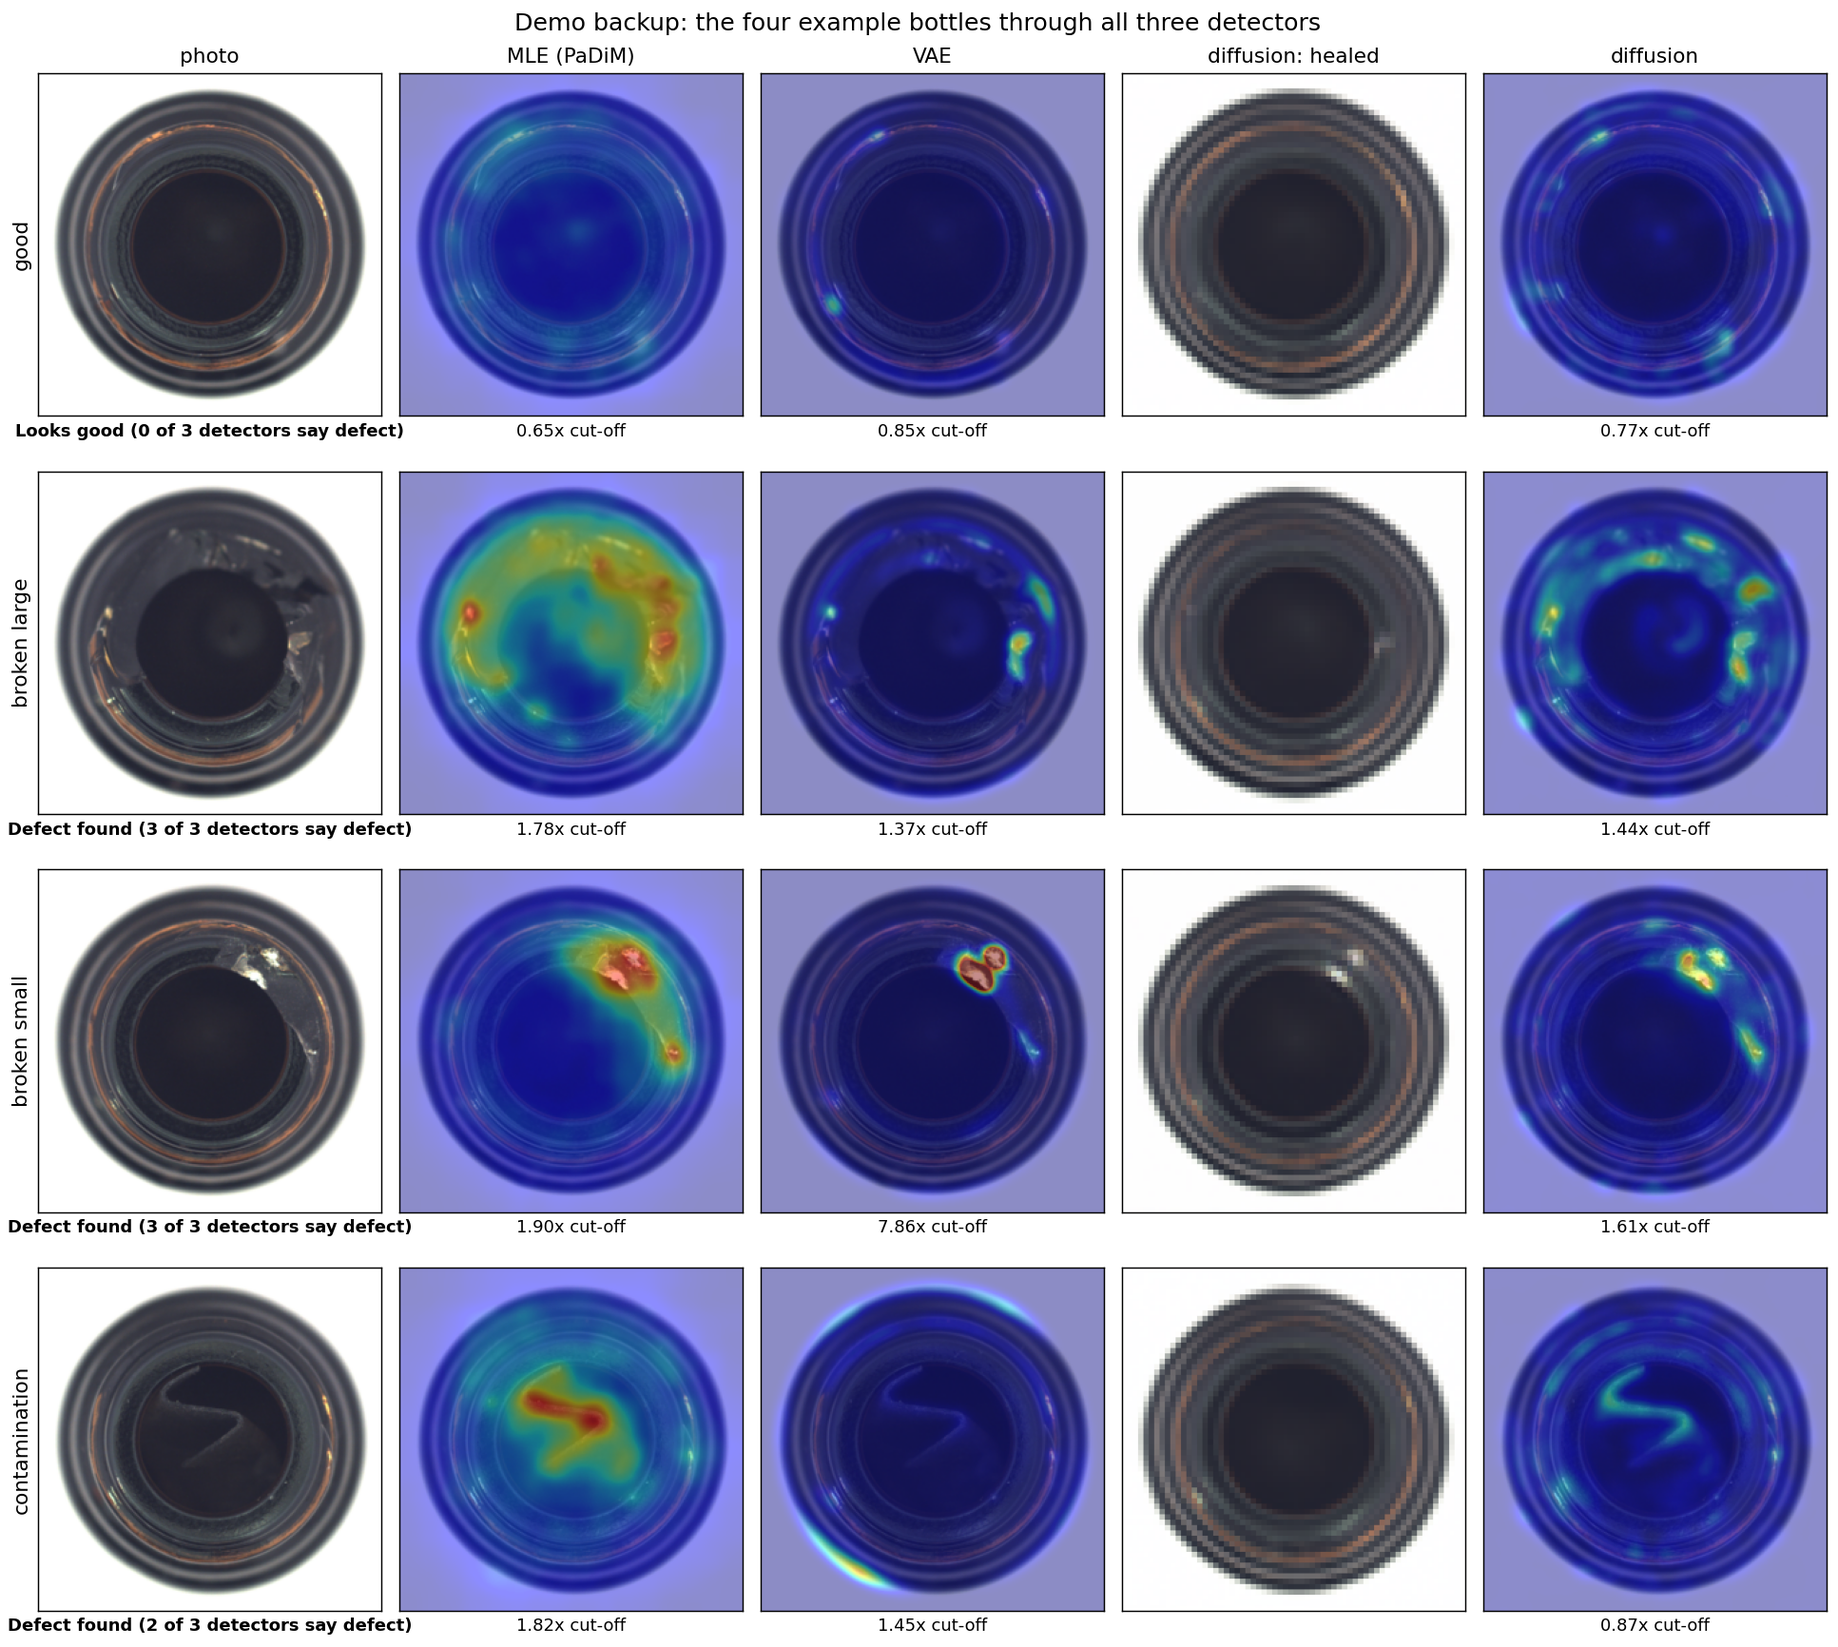
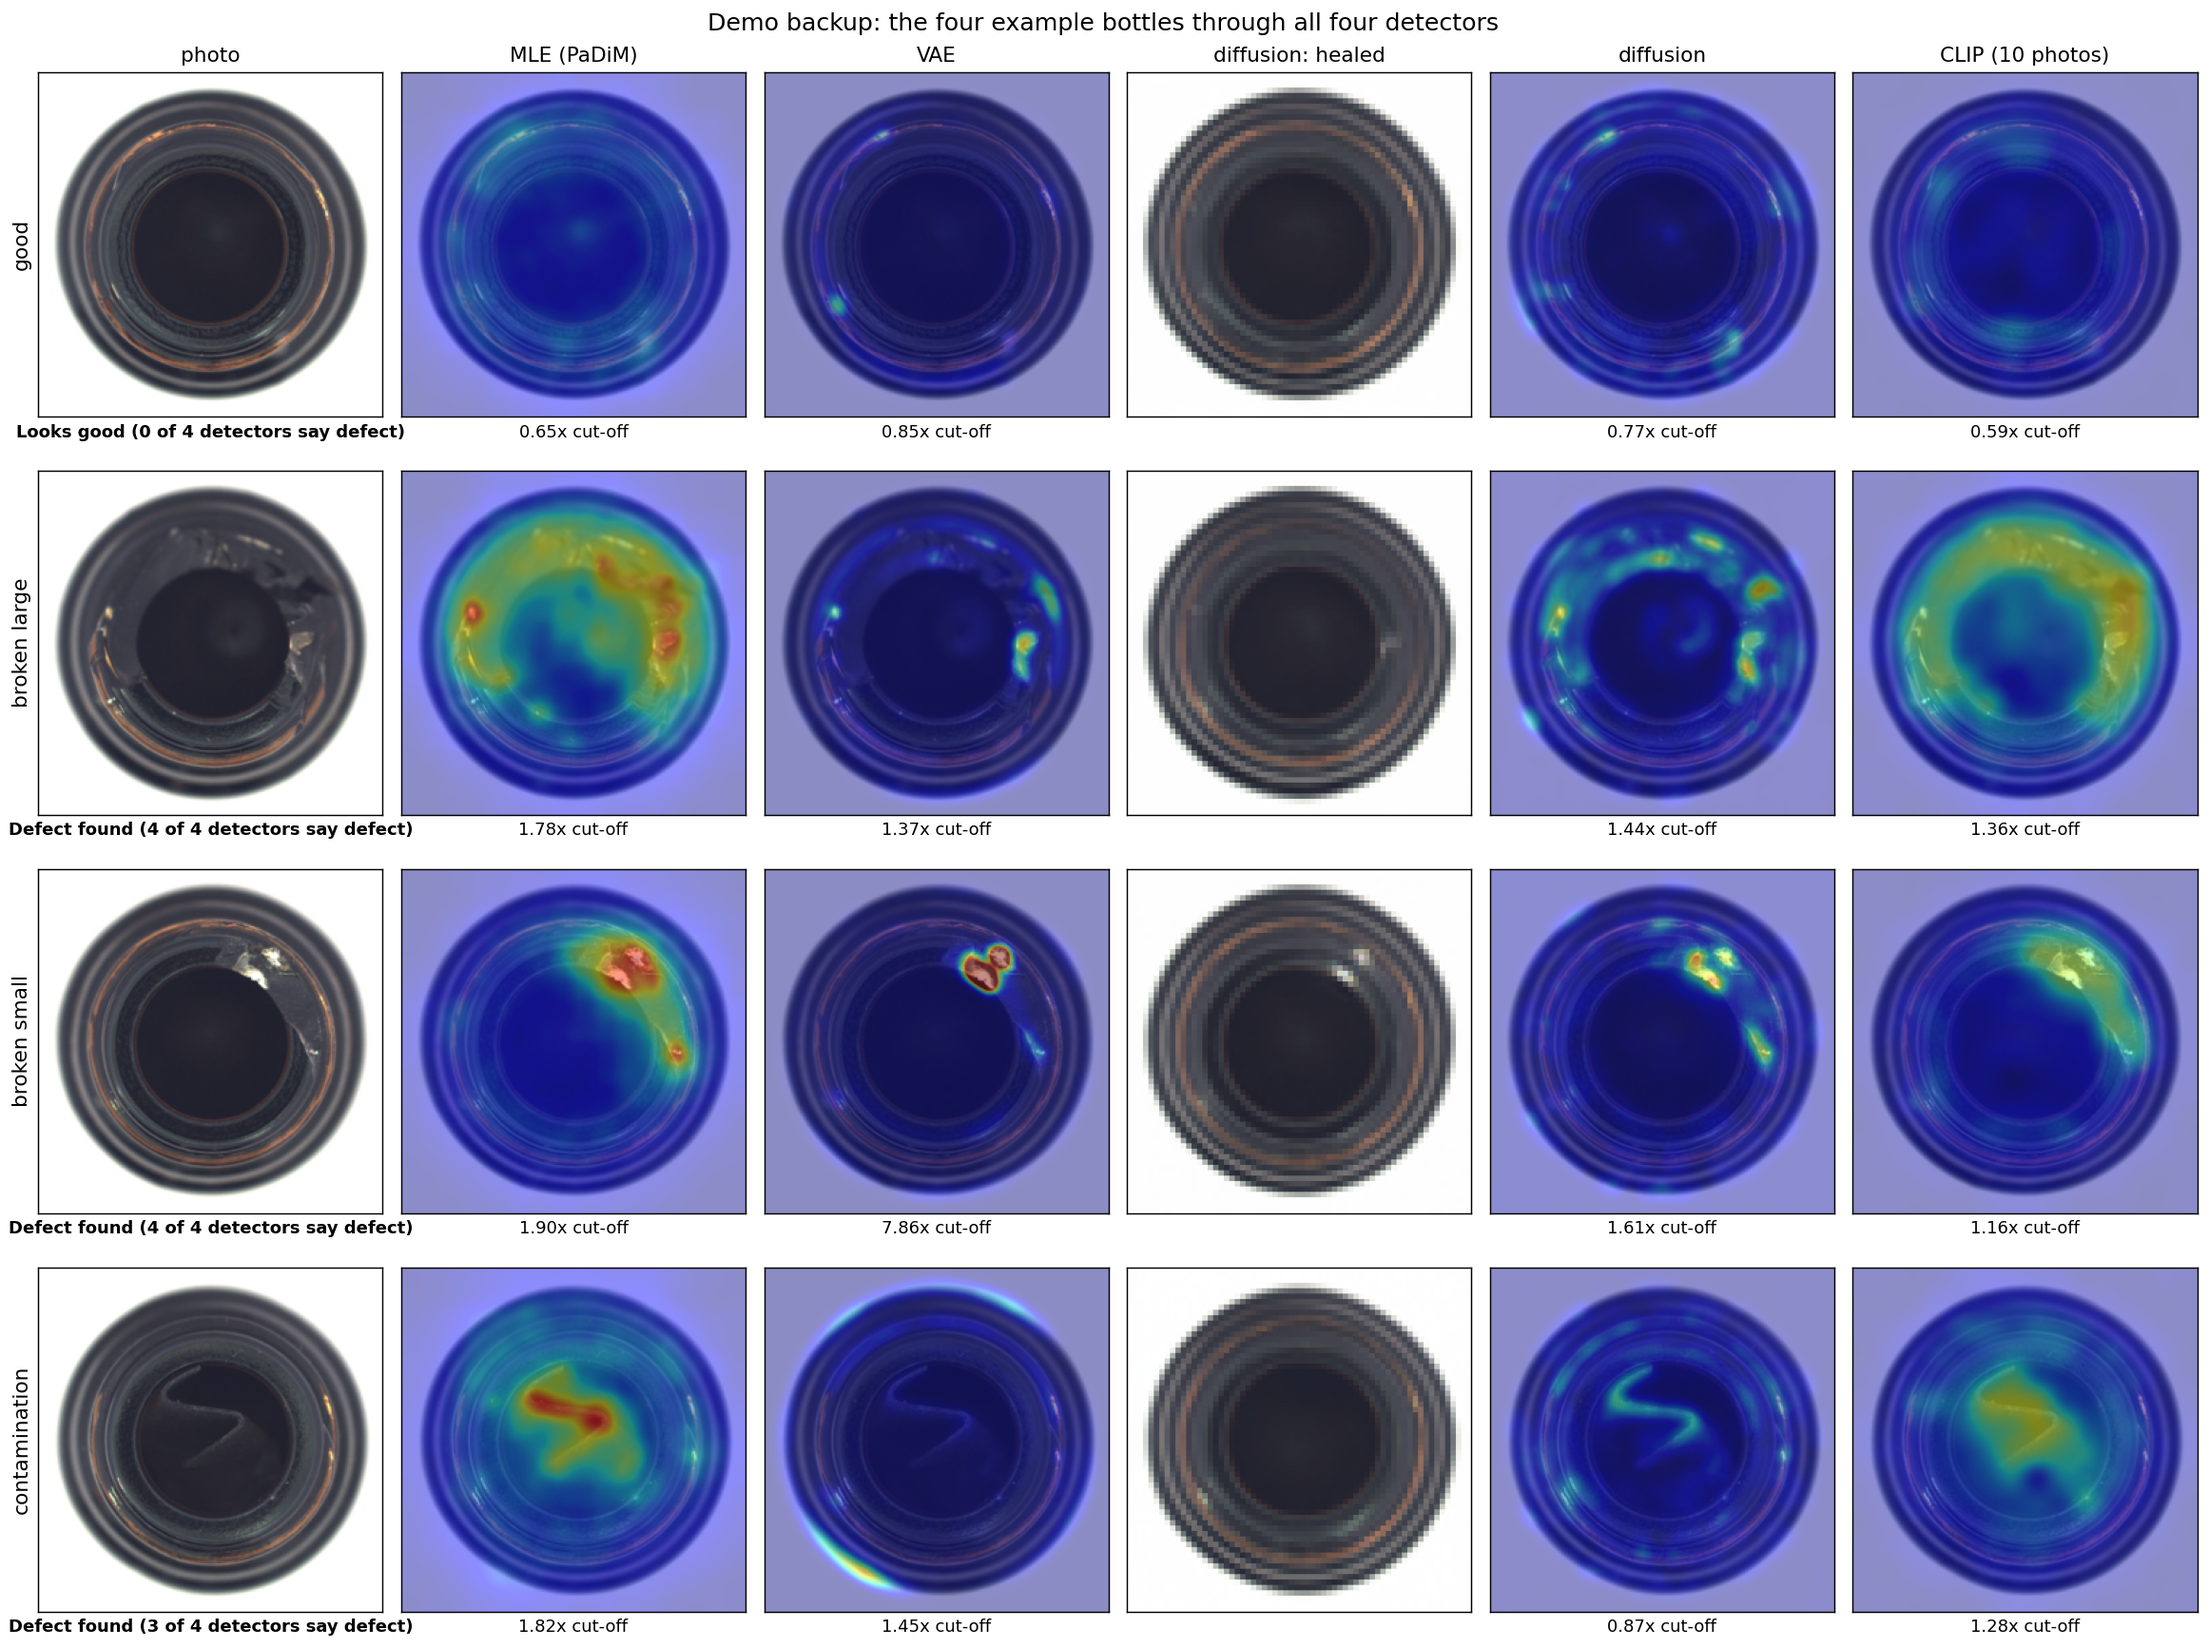
Phase 5: CLIP column in the demo, README section on few-shot, CLIP and fake defects

diff --git a/demo.py b/demo.py
@@ -1,4 +1,4 @@
-"""Demo app: upload a bottle photo, see what all three detectors think.
+"""Demo app: upload a bottle photo, see what all four detectors think.
 
     python demo.py            # opens on http://127.0.0.1:7860
     python demo.py --share    # also prints a public link (needs internet)
@@ -17,11 +17,12 @@ from PIL import Image
 
 from data import load_mvtec
 from detectors import diffusion, vae
+from detectors.clip_detector import CLIPDetector
 from detectors.padim import PaDiM
 from make_figures import typical_per_type
 
 CUT = {k: json.loads(Path(f"results/{k}.json").read_text())["threshold"] for k in ("padim", "vae", "diffusion")}
-NAMES = {"padim": "MLE (PaDiM)", "vae": "VAE", "diffusion": "Diffusion healing"}
+NAMES = {"padim": "MLE (PaDiM)", "vae": "VAE", "diffusion": "Diffusion healing", "clip": "CLIP, 10 photos"}
 JET = matplotlib.colormaps["jet"]
 
 print("Loading detectors...")
@@ -29,6 +30,11 @@ data = load_mvtec()
 padim = PaDiM().fit(data["train_images"])
 vae_model = vae.load("models/vae.pt")
 ddpm = diffusion.load()
+# CLIP sees only 10 good bottles (same draw as few_shot.py). Its cut-off is the highest score among 50 other good
+# bottles it never saw: no defect photo needed (the "good only" rule that held up in use_fakes.py).
+pick = np.random.default_rng(0).permutation(len(data["train_images"]))
+clip = CLIPDetector().fit(data["train_images"][pick[:10]])
+CUT["clip"] = float(clip.few_shot_maps(data["train_images"][pick[10:60]]).max())
 scores = padim.heatmaps(data["test_images"]).reshape(len(data["test_images"]), -1).max(1)
 EXAMPLES = [data["test_paths"][i] for i in typical_per_type(data["test_types"], scores)]  # one typical bottle per type
 print("Ready.")
@@ -45,24 +51,24 @@ def inspect(photo):
         raise gr.Error("Upload a bottle photo first, or click one of the examples.")
     img = np.array(Image.fromarray(photo).convert("RGB").resize((256, 256), Image.BILINEAR))  # same as data.py; a writable copy for torch
     healed, diff_map = diffusion.heal_and_map(ddpm, img[None])
-    maps = {"padim": padim.detect(img), "vae": vae.detect(vae_model, img), "diffusion": diff_map[0]}
+    maps = {"padim": padim.detect(img), "vae": vae.detect(vae_model, img), "diffusion": diff_map[0], "clip": clip.detect(img)}
 
     rows, votes = [], 0
     for k, m in maps.items():
         ratio = float(m.max()) / CUT[k]
         votes += ratio >= 1
         rows.append(f"| {NAMES[k]} | {ratio:.2f}x | {'🔴 Defect found' if ratio >= 1 else '🟢 Looks good'} |")
-    summary = (f"### {'🔴 Defect found' if votes >= 2 else '🟢 Looks good'} ({votes} of 3 detectors say defect)\n\n"
+    summary = (f"### {'🔴 Defect found' if votes >= 2 else '🟢 Looks good'} ({votes} of 4 detectors say defect)\n\n"
                "| Detector | Score ÷ cut-off | Verdict |\n|---|---|---|\n" + "\n".join(rows) +
-               "\n\n1.00x is the decision line. All three detectors were trained only on good bottles.")
+               "\n\n1.00x is the decision line. All detectors were trained only on good bottles; CLIP on just 10.")
     healed_big = np.asarray(Image.fromarray(healed[0]).resize((256, 256), Image.NEAREST))
     return (summary, overlay(img, maps["padim"], CUT["padim"]), overlay(img, maps["vae"], CUT["vae"]),
-            healed_big, overlay(img, maps["diffusion"], CUT["diffusion"]))
+            healed_big, overlay(img, maps["diffusion"], CUT["diffusion"]), overlay(img, maps["clip"], CUT["clip"]))
 
 
 with gr.Blocks(title="Defect Inspector") as app:
     gr.Markdown("# An inspector that has never seen a defect\n"
-                "Three generative models trained **only on good bottles** (MVTec AD). "
+                "Three generative models trained **only on good bottles** (MVTec AD), plus CLIP shown just 10 of them. "
                 "Upload a bottle photo, or pick an example, and see where each one thinks the defect is.")
     with gr.Row():
         photo = gr.Image(type="numpy", label="Bottle photo", height=300)
@@ -74,14 +80,15 @@ with gr.Blocks(title="Defect Inspector") as app:
         out_vae = gr.Image(label="VAE heatmap", height=256)
         out_healed = gr.Image(label="Diffusion: healed bottle", height=256)
         out_diff = gr.Image(label="Diffusion heatmap", height=256)
+        out_clip = gr.Image(label="CLIP heatmap (10 photos)", height=256)
     gr.Markdown("Colour: blue = normal, green = at the cut-off, red = twice the cut-off or more. "
                 "Diffusion takes a few seconds on a laptop CPU.")
-    button.click(inspect, photo, [summary, out_padim, out_vae, out_healed, out_diff])
+    button.click(inspect, photo, [summary, out_padim, out_vae, out_healed, out_diff, out_clip])
 
 def save_backup(out="results/demo_backup.png"):
     """Static copy of the demo on the four examples, for when the live app can't run."""
     import matplotlib.pyplot as plt
-    cols = ["photo", "MLE (PaDiM)", "VAE", "diffusion: healed", "diffusion"]
+    cols = ["photo", "MLE (PaDiM)", "VAE", "diffusion: healed", "diffusion", "CLIP (10 photos)"]
     fig, ax = plt.subplots(len(EXAMPLES), len(cols), figsize=(3 * len(cols), 3.4 * len(EXAMPLES)))
     for r, path in enumerate(EXAMPLES):
         photo = np.array(Image.open(path).convert("RGB").resize((256, 256), Image.BILINEAR))
@@ -91,13 +98,13 @@ def save_backup(out="results/demo_backup.png"):
         for c, im in enumerate([photo, *images]):
             ax[r, c].imshow(im)
             ax[r, c].set_xticks([]); ax[r, c].set_yticks([])
-        for c, (_, ratio, _) in zip((1, 2, 4), table):   # each heatmap's score under it
+        for c, (_, ratio, _) in zip((1, 2, 4, 5), table):   # each heatmap's score under it
             ax[r, c].set_xlabel(ratio.strip() + " cut-off", fontsize=10)
         ax[r, 0].set_ylabel(Path(path).parent.name.replace("_", " "), fontsize=12)
         ax[r, 0].set_xlabel(verdict, fontsize=10, fontweight="bold")
     for c, title in enumerate(cols):
         ax[0, c].set_title(title, fontsize=12)
-    fig.suptitle("Demo backup: the four example bottles through all three detectors", fontsize=14)
+    fig.suptitle("Demo backup: the four example bottles through all four detectors", fontsize=14)
     fig.tight_layout()
     fig.savefig(out, dpi=130, bbox_inches="tight")
     print("saved", out)

diff --git a/README.md b/README.md
@@ -22,11 +22,53 @@ Image AUROC: is the bottle defective? Pixel AUROC: is the heatmap in the right p
 ![Results](results/fig_results.png)
 ![Same bottles through all three detectors](results/fig_compare.png)
 
+## Going further: few photos, CLIP, and fake defects
+
+**How many good photos does it need?** ([few_shot.py](few_shot.py), [clip_detector.py](detectors/clip_detector.py))
+PaDiM fitted on k random good bottles (3 draws each), and CLIP (ViT-B/16) remembering the patches of k good bottles:
+
+| Good photos | PaDiM image / pixel | CLIP image / pixel |
+|---|---|---|
+| 0 (CLIP reads text: "damaged bottle") | | 0.933 / 0.689 |
+| 1 | 0.975 / 0.950 | **0.997 / 0.985** |
+| 10 | 0.992 / 0.979 | **1.000 / 0.988** |
+| all 209 | 0.996 / 0.985 | |
+
+With CLIP, **one good photo is enough** to match PaDiM trained on all 209.
+
+![Few-shot](results/fig_few_shot.png)
+
+**Fake defects** ([synthetic.py](synthetic.py), [make_diffusion_defects.py](make_diffusion_defects.py)).
+Real defect photos are rare, so we make them: draw a defect mask on a good bottle and fill it either by
+CutPaste (pixels from a rotated, brightness-shifted bottle) or by Stable Diffusion inpainting
+("broken glass...", "a dark piece of debris..."), zoomed in so the defect isn't "healed" away.
+CLIP keeps a fake only if it looks more damaged than the bottle it came from:
+CutPaste 83/150 kept, diffusion 162/300 (75 min on a 4 GB laptop GPU).
+
+![Diffusion fakes](results/fig_fakes_diffusion.png)
+
+**Using the fakes** ([use_fakes.py](use_fakes.py)). No real defect photo is used for anything but the final score.
+
+| Cut-off picked from (PaDiM fitted on 150 good bottles) | Accuracy on real test set | False alarms | Missed |
+|---|---|---|---|
+| the test set itself (old way, cheating) | 98.8% | 5% | 0% |
+| 59 held-out good bottles only | **98.8%** | 5% | 0% |
+| good + CutPaste / diffusion fakes | 97.6% | 10% | 0% |
+
+So the 98.8% holds up when the cut-off is picked honestly.
+
+A **segmenter trained only on fakes** (a small conv head on frozen ResNet18 features), tested on the real defects:
+CutPaste fakes 0.971 / 0.915, diffusion fakes (same count) **0.981** / 0.894, both **0.984 / 0.912** (image / pixel AUROC, 3 seeds).
+It never saw a real defect. Diffusion fakes are better for "is it defective?", CutPaste for "where?".
+It does not beat PaDiM, and with only 10 good photos it drops to 0.92.
+
+![Using the fakes](results/fig_use_fakes.png)
+
 **Honest notes**
-- The decision cut-offs and the diffusion noise level were chosen on the test set
-  (there is no separate set of defect images), so the "correct at cut-off" numbers
-  are optimistic. AUROC does not depend on a cut-off.
-- One category only (bottle), 209 training images.
+- The cut-offs in the first table, and the diffusion noise level, were chosen on the test set.
+  For PaDiM, picking the cut-off from held-out good bottles instead gives the same accuracy (table above).
+  AUROC does not depend on a cut-off.
+- One category only (bottle), 209 training images, 20 good test bottles (so 5% = one bottle).
 
 ## What's in the repo
 
@@ -39,7 +81,12 @@ Image AUROC: is the bottle defective? Pixel AUROC: is the heatmap in the right p
 | `detectors/vae.py` | Loads the trained `vae.pt` and makes VAE heatmaps | Shruti / Sohail |
 | `detectors/diffusion_healing.ipynb` | Detector 3: DDPM training, healing, noise-level tuning (Colab) | Raju |
 | `detectors/diffusion.py` | Loads the trained DDPM and heals bottles on a CPU (~3 s each) | Raju / Sohail |
-| `demo.py` | Demo app: upload a bottle, see all three heatmaps and the verdict | Sohail |
+| `few_shot.py` | PaDiM with 1 to 209 good photos | Sohail |
+| `detectors/clip_detector.py` | Detector 4: CLIP zero-shot (text only) and few-shot | Sohail |
+| `synthetic.py` | Fake defects: masks, CutPaste, CLIP filter, gallery | Sohail |
+| `make_diffusion_defects.py` | Fake defects with Stable Diffusion inpainting (GPU) | Sohail |
+| `use_fakes.py` | Honest cut-offs and a segmenter trained only on fakes | Sohail |
+| `demo.py` | Demo app: upload a bottle, see all four heatmaps and the verdict | Sohail |
 | `make_figures.py` | Results table, chart and figures in `results/` | Sohail |
 | `results/` | Scores (`*.json`), tables and figures | everyone |
 
@@ -71,7 +118,15 @@ exports `diffusion_heatmaps.npz`, which goes into `results/` for the figures. A 
 different random noise, so it scores very slightly differently (0.989 / 0.956).
 Training notebooks for the VAE and the DDPM are in `detectors/`.
 
-**4. Tables and figures:**
+**4. Going further** (CLIP downloads ~600 MB; diffusion fakes need a GPU and diffusers):
+
+    python few_shot.py                         # PaDiM with k good photos -> few_shot.json, fig_few_shot.png
+    python -m detectors.clip_detector          # CLIP zero/few-shot -> clip.json (then re-run few_shot.py for the plot)
+    python synthetic.py cutpaste && python synthetic.py filter data/synthetic/cutpaste
+    python make_diffusion_defects.py --n 300 && python synthetic.py filter data/synthetic/diffusion
+    python use_fakes.py                        # -> fakes.json, fig_use_fakes.png (~5 min)
+
+**5. Tables and figures:**
 
     python make_figures.py    # results_table.md, fig_results.png, fig_padim.png, fig_compare.png
 
@@ -79,12 +134,13 @@ Training notebooks for the VAE and the DDPM are in `detectors/`.
 
 ## Demo app
 
-    pip install gradio diffusers
+    pip install gradio diffusers transformers
     python demo.py            # http://127.0.0.1:7860 (starts in ~40 s); add --share for a public link
     python demo.py --backup   # saves results/demo_backup.png, a static copy in case the live demo fails
 
 Upload a bottle photo or pick one of four examples. You get a verdict from each detector
-(its score as a multiple of its cut-off), the three heatmaps and the diffusion-healed bottle.
+(its score as a multiple of its cut-off), the four heatmaps and the diffusion-healed bottle.
+CLIP is shown only 10 good bottles; its cut-off is the highest score among 50 other good bottles.
 Needs `data/bottle/` and, from the team Drive, `models/vae.pt` and `models/ddpm_bottle_ema/`.
 
 ## Use a detector in your own code
